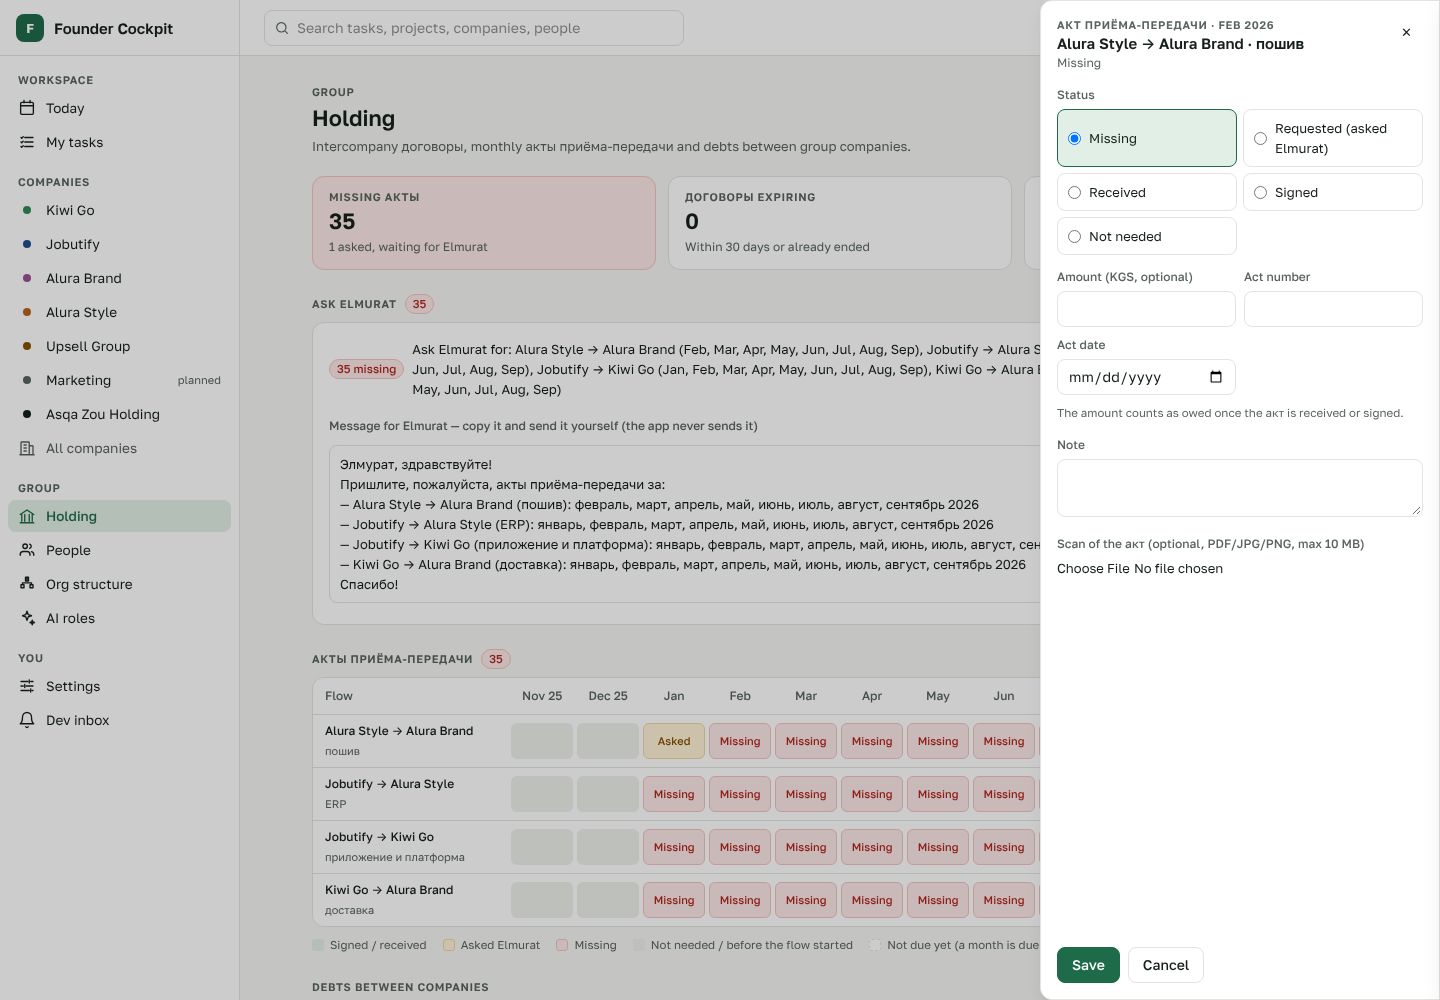
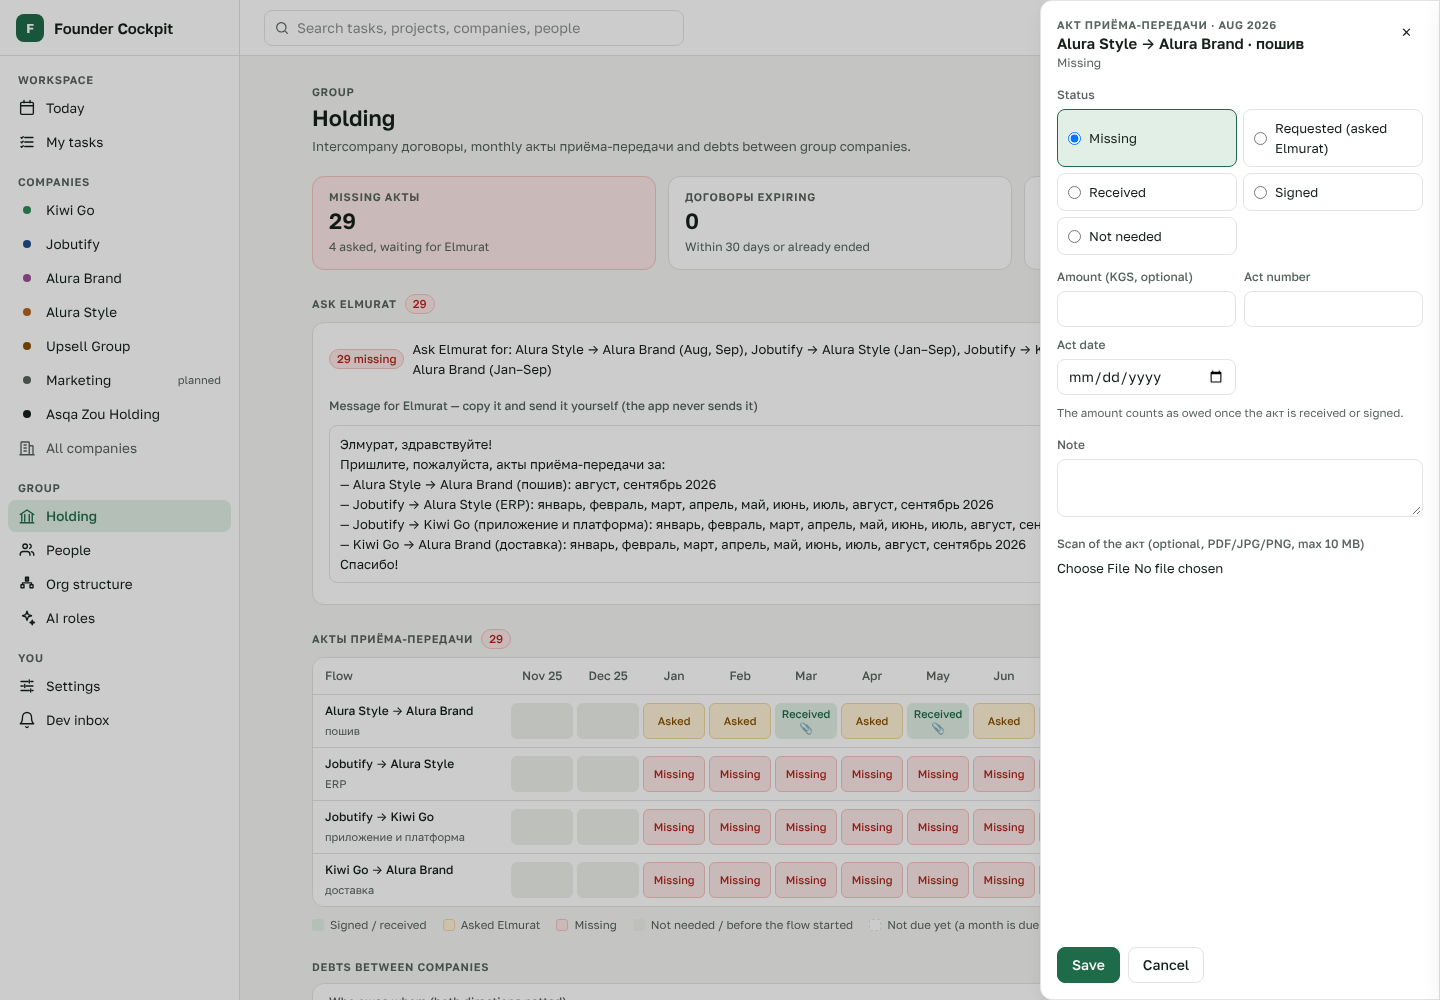
Holding e2e: upload a scan through the browser, debts follow the received amount; fresh screenshots
Claude-Session: https://claude.ai/code/session_01Lm7ff7THzG6EBcYphgva3C

diff --git a/e2e/holding.spec.ts b/e2e/holding.spec.ts
@@ -36,6 +36,8 @@ test("holding: attach a scan to an акт (upload through the browser, served ba
   const cell = page.locator('[data-testid="act-cell"][data-cell-state="missing"]').first();
   const flow = await cell.locator("xpath=ancestor::tr").getAttribute("data-flow");
   const period = await cell.getAttribute("data-period");
+  const totalNow = async () => ((await (await page.request.get("/api/v1/holding/debts")).json()) as { data: { total: number } }).data.total;
+  const before = await totalNow();
   await cell.click();
   const panel = page.getByTestId("act-panel");
   await panel.getByLabel("Received").check();
@@ -51,7 +53,9 @@ test("holding: attach a scan to an акт (upload through the browser, served ba
   await expect(panel).toBeHidden();
   const saved = page.locator(`tr[data-flow="${flow}"] [data-testid="act-cell"][data-period="${period}"]`);
   await expect(saved).toHaveAttribute("data-cell-state", "received");
-  await expect(page.getByTestId("debts-table")).toContainText("125");
+  // The received amount now counts as owed (debts are derived from the акты).
+  expect(await totalNow()).toBe(before + 125000);
+  await expect(page.getByTestId("debts-total")).toBeVisible();
 
   // A wrong file type is refused with a clear message.
   await page.locator('[data-testid="act-cell"][data-cell-state="missing"]').first().click();
